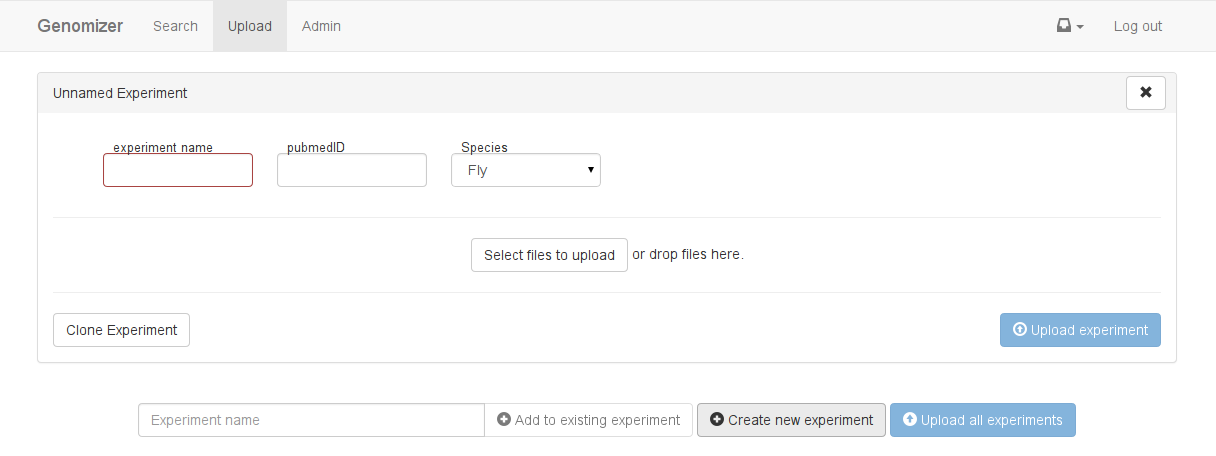
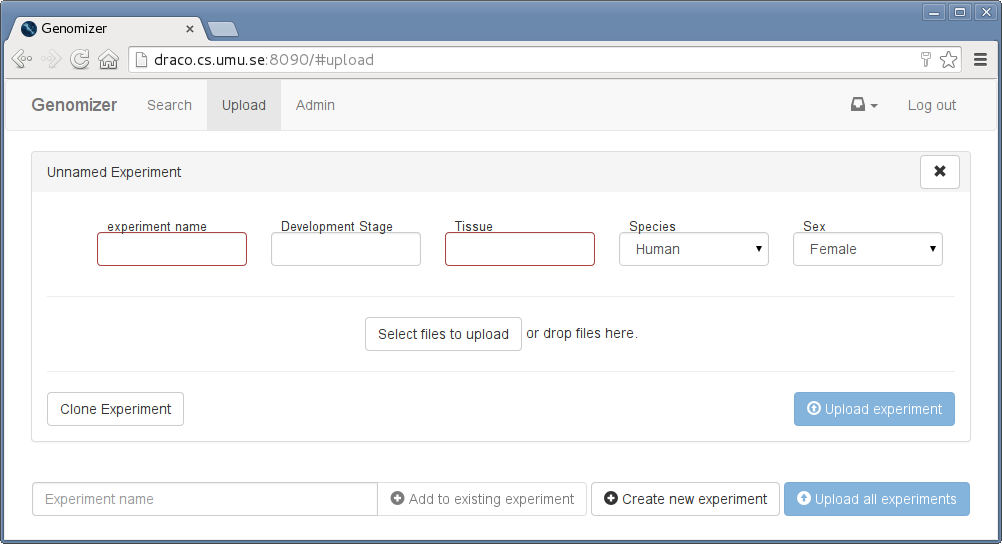
Recaptured screenshots to fit better and to be correctly rotated in the web user manual.Also deleted two unnecessary screenshots (searching and noResult).

diff --git a/usermanual/web_manual.tex b/usermanual/web_manual.tex
@@ -12,11 +12,11 @@ This section will describe how to use the interface and how to interact with it.
 When first entering the webpage the login modal in \refer{fig:web_search_login} is shown and the user will have to enter their username and password to gain access to the application.
 
 %figure 2
-\begin{sidewaysfigure}[h] 
+\begin{figure}[h] 
 \centering
 \includegraphics[width=1\textwidth]{web_search_welcome.png}
 \caption{\label{fig:web_search_welcome} The welcome screen of the webpage.}
-\end{sidewaysfigure}
+\end{figure}
 
 When the user has logged in, the user is taken to the search page as shown in \refer{fig:web_search_welcome}.
 
@@ -33,24 +33,15 @@ This navigation bar is persistent through all sub pages and can easily be access
 
 \subsubsection{Search view}
 
-Below the navigation bar a “search-and-functionality” bar is visible, there is a search field and there are six buttons, Query-builder, Search, Download, Upload to and Process. However, when first entering the page some buttons will be disabled. When you enter something in the search field the search button will become enabled and clickable. To search the user can either write a pubmed style query (for example: Exp1[ExpID]) or use the query builder, by clicking the paperclip icon.
-
-%figure BILD
-\begin{sidewaysfigure}[h]
-\centering
-\includegraphics[width=1\textwidth]{web_search_searching.png}
-\caption{\label{fig:web_search_searching}Will be shown while searching for data in the database before any results are found.}
-\end{sidewaysfigure}
-
-After having typed a query and pressed search, the search results will load displaying the loading spinner as can be seen in figure \refer{fig:web_search_searching}.
+Below the navigation bar a “search-and-functionality” bar is visible, there is a search field and there are six buttons, Query-builder, Search, Download, Upload to and Process. However, when first entering the page some buttons will be disabled. When you enter something in the search field the search button will become enabled and clickable. To search the user can either write a pubmed style query (for example: Fly[Species]) or use the query builder, by clicking the paperclip icon. When clicking the search button, a loading screen is shown. The experiment data is displayed once it has been retrieved from the server.
 %figure x3
-\begin{sidewaysfigure}[h]
+\begin{figure}[h]
 \centering
 \includegraphics[width=1\textwidth]{web_search_searchTab.png}
 \caption{\label{fig:web_search_searchTab}The search tab after a search for ‘Fly[Species]’.}
-\end{sidewaysfigure}
+\end{figure}
 
-The view shown in \refer{fig:web_search_searchTab} contains two major elements; a “search-and-functionality” bar and a list of search results retrieved after searching for ‘Exp1[ExpID]’. The buttons next to the search bar do the following: 
+The view shown in \refer{fig:web_search_searchTab} contains two major elements; a “search-and-functionality” bar and a list of search results retrieved after searching for ‘Fly[Species]’. The buttons next to the search bar do the following: 
 \begin{itemize}
 	\item The paperclip brings up a Query builder.
 	\item “Search” searches for the query in the search bar. 
@@ -59,29 +50,27 @@ The view shown in \refer{fig:web_search_searchTab} contains two major elements; 
     \item "Upload to" opens the upload view with the selected experiments selected where the user can upload new files to an already existing experiment.
     \item "Remove" opens a new view where the files which are going to be deleted are presented along with a confirmation dialog that the user really wants to delete those files and experiments.
 \end{itemize}
-\begin{sidewaysfigure}[h]
+
+\begin{figure}[h]
 \centering
 \includegraphics[width=1\textwidth]{web_search_queryBuilder.png}
 \caption{\label{fig:web_search_queryBuilder}The query builder.}
-\end{sidewaysfigure}
+\end{figure}
+
 The search query builder as shown in \refer{fig:web_search_queryBuilder} can be used to easily build pubmed-styled search queries. Just select a value in the three fields and press add. The correct pubmed-styled query will be shown in the search field and the three query fields will be reset so the user can add more things to search for in their query.
 
 Below the search bar in \refer{fig:web_search_searchTab} is the “search results” list. This list contains all experiments returned from a search. Every experiment can be expanded to show the file types it contains. Each file type can be expanded to show all files of that type in the experiment. All files and experiments has a check box next to it that is used to select what to process, download, remove or upload to.
+
 %figure x4
-\begin{sidewaysfigure}[h]
+\begin{figure}[h]
 \centering
-\includegraphics[width=0.8\textwidth]{web_search_searchResult.png}
-\caption{\label{fig:web_search_searchResult}The search results table zoomed in, displaying a raw file’s information after having expanded an experiment.}
-\end{sidewaysfigure}
+\includegraphics[width=1\textwidth]{web_search_searchResult.png}
+\caption{\label{fig:web_search_searchResult}The search results table zoomed in, displaying the information of a raw file after having expanded an experiment.}
+\end{figure}
+
 \FloatBarrier
 If a search is successful, you will be met with a table of results. This table has a header displaying the annotation types. Below that, all the experiments returned from a search and their corresponding annotation values, as can be seen in \refer{fig:web_search_searchResult}.
-If the search is unsuccessful, the Search Results table will be empty stating “No search results found” as can be seen in \refer{fig:web_search_noResult}.
-%figure BILD PÅ NO SEARCH RESULTS
-\begin{sidewaysfigure}[h]
-\centering
-\includegraphics[width=0.8\textwidth]{web_search_noResult.png}
-\caption{\label{fig:web_search_noResult}The search view if no data was found given the search query entered by the user.}
-\end{sidewaysfigure}
+If the search is unsuccessful, the Search Results table will be empty stating “No search results found”.
 \FloatBarrier
 
 \pagebreak
@@ -106,14 +95,14 @@ At the top of the modal the experiments currently going through processing are p
 When the user has decided the parameters as shown in \refer{fig:web_process_modalValues} and wants to start the processing the process button in the bottom right should be pressed. 
 \begin{figure}[h]
 \centering
-\includegraphics[width=1\textwidth]{web_process_success.png}
+\includegraphics[width=0.8\textwidth]{web_process_success.png}
 \caption{\label{fig:web_process_success}Success message.}
 \end{figure}
 \FloatBarrier
 When results are received from the server and they were all successful the processing modal will disappear and a success message indicating that the processing is starting will be displayed to the user like in \refer{fig:web_process_success}.
 \begin{figure}[h]
 \centering
-\includegraphics[width=1\textwidth]{web_process_notSuccess.png}
+\includegraphics[width=0.8\textwidth]{web_process_notSuccess.png}
 \caption{\label{fig:web_process_notSuccess}Fail message.}
 \end{figure}
 If some of the files that was going to be processed did for some reason fail the user will learn this by a warning message that tells the user which experiment did not start processing and which did as shown in \refer{fig:web_process_notSuccess}. The ones which started to process will be removed from the modal and the ones that did not start to process will remain. The user can now choose other parameters or do something else to make it work and try to submit a processing request again.
@@ -121,7 +110,7 @@ If some of the files that was going to be processed did for some reason fail the
 \subsubsection{The remove modal}
 \begin{figure}[h]
 \centering
-\includegraphics[width=0.9\textwidth]{web/manual/web_remove.png}
+\includegraphics[width=0.8\textwidth]{web/manual/web_remove.png}
 \caption{\label{fig:web_remove_removeFiles}The remove modal.}
 \end{figure}
 \FloatBarrier
@@ -130,7 +119,7 @@ When the remove button is pressed the modal in \refer{fig:web_remove_removeFiles
 \subsubsection{The process status dropdown}
 \begin{figure}[h]
 \centering
-\includegraphics[width=0.8\textwidth]{web_processStatus_withData.png}
+\includegraphics[width=0.5\textwidth]{web_processStatus_withData.png}
 \caption{\label{fig:web_processStatus_withData}The process status dropdown.}
 \end{figure}
 \FloatBarrier
@@ -140,7 +129,7 @@ These are grouped together with a yellow color for waiting, blue for running, gr
 \subsubsection{The process status dropdown}
 \begin{figure}[h]
 \centering
-\includegraphics[width=0.8\textwidth]{web_processStatus_noData.png}
+\includegraphics[width=0.4\textwidth]{web_processStatus_noData.png}
 \caption{\label{fig:web_processStatus_noData}The process status dropdown with no status available.}
 \end{figure}
 \FloatBarrier
@@ -148,20 +137,22 @@ These are grouped together with a yellow color for waiting, blue for running, gr
 If there are no processes status available the user will see the text as shown in \refer{fig:web_processStatus_noData}
 
 \subsubsection{The upload view}
+
 %figure X7
-\begin{sidewaysfigure}[h]
+\begin{figure}[h]
 \centering
 \includegraphics[width=1\textwidth]{web_upload_uploadView.png}
 \caption{\label{fig:web_upload_uploadView}The upload view.}
-\end{sidewaysfigure}
+\end{figure}
 
 When the user clicks the upload tab in the navigation bar, the view in \refer{fig:web_upload_uploadView} will appear. The user has the option to create a new and fresh experiment or to load an existing experiment by entering its experiment name. 
+
 %figure X8
-\begin{sidewaysfigure}[h]
+\begin{figure}[h]
 \centering
 \includegraphics[width=1\textwidth]{web_upload_newExperiment.png}
 \caption{\label{fig:web_upload_newExperiment}Creating a new experiment.}
-\end{sidewaysfigure}
+\end{figure}
 
 After clicking the “Create new experiment” button, the view in \refer{fig:web_upload_newExperiment} will appear. Here the user can input the annotations for the experiment through either free text fields or drop-down lists. If a free text field has a red border around it, that annotation is required and the experiment can not be uploaded before all required fields have been filled in and at least one file has been added.
 % new, empty, experiment? Instead of new empty experiment? Why the commas?
